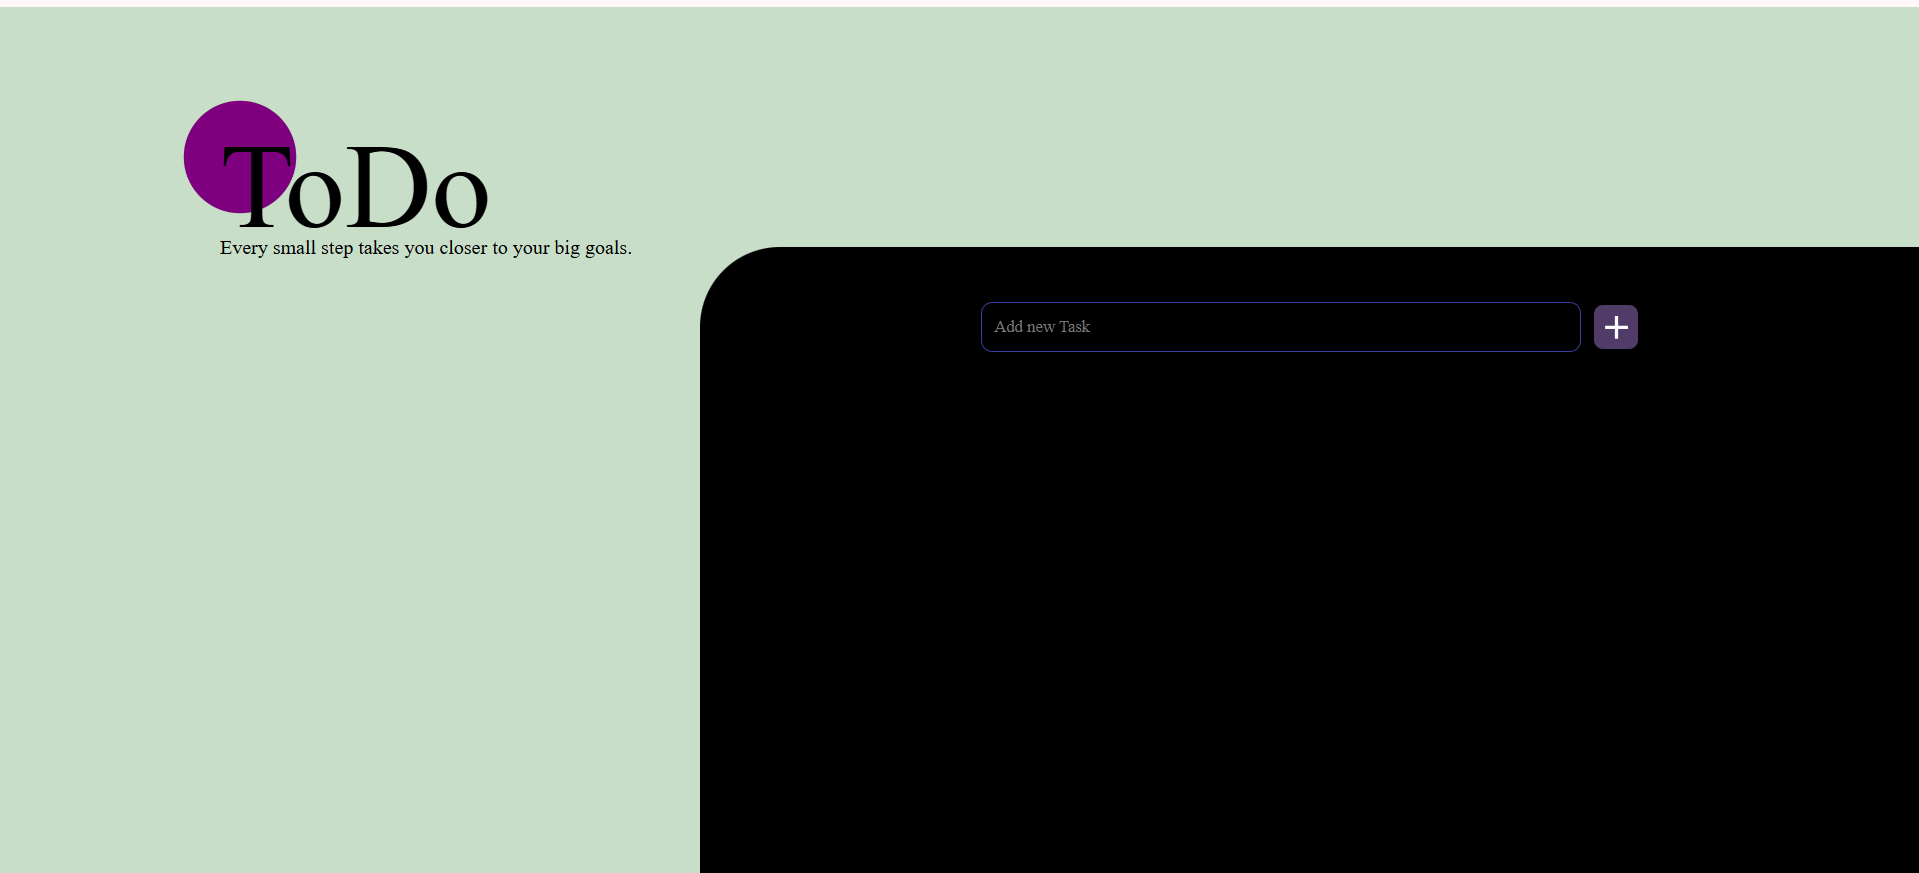
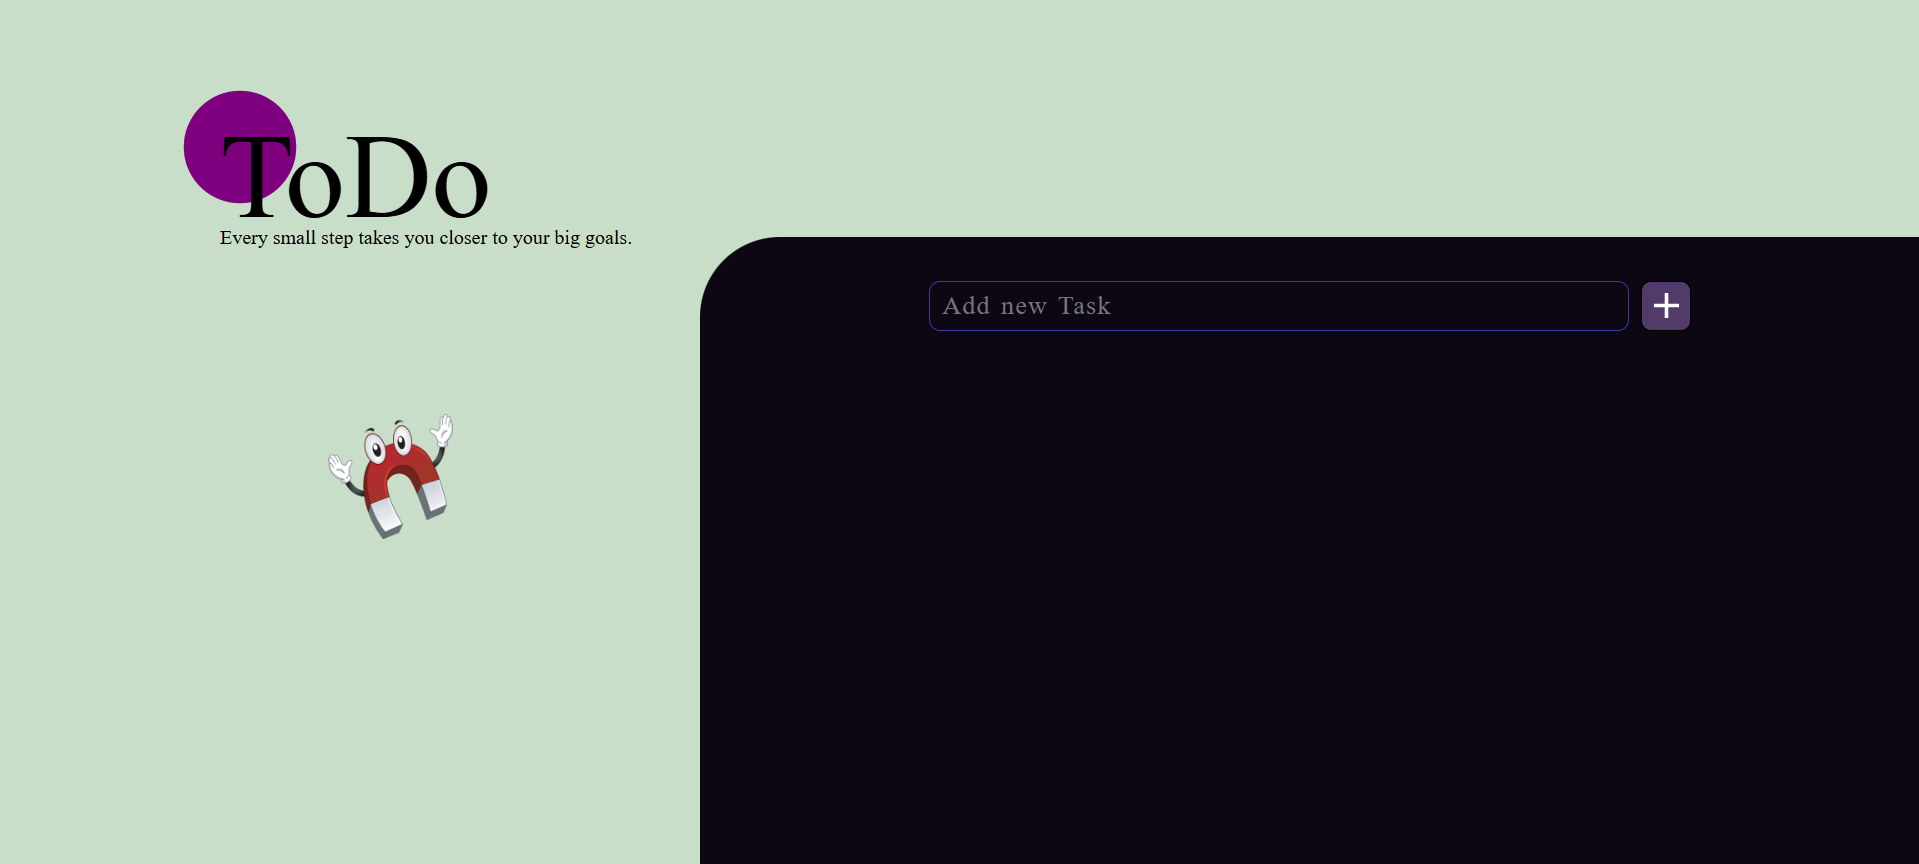
completed

diff --git a/script.js b/script.js
@@ -24,7 +24,7 @@ const cursor = new MouseFollower({
   speed: 0.55,
   ease: 'expo.out',
   overwrite: true,
-  skewing: 0,
+  skewing: 4,
   skewingText: 2,
   skewingIcon: 2,
   skewingMedia: 2,
@@ -99,32 +99,26 @@ function strik(index){
 }
 
 
-function createTodoComponent(todos,index){
-   
-  const div = document.createElement("div")
-   div.innerHTML=`<div class="Tasks">
-    <input type="checkbox" id="check-box${index}" onchange="strik(${index})" ${todos.completed ? "checked" : ""} value="${todos.title}"/>
-        <input type="text" id="taskInputEdit${index}" value="${todos.title}" readonly>
-        <button onclick="tdone(${index})"><img src="assets/check-line (1).svg" alt=""></button>
-        <button onclick="taskedit(${index})"><img src="assets/pencil.svg" alt=""></button>
-        <button onclick="taskdelete(${index})"><img src="assets/delete.svg" alt=""></button>
-     </div>`
-
-  return div;
-}
 
 function render(){
-  document.querySelector("#task-cards").innerHTML = "";
-      for (let i = 0; i < todos.length; i++) {
-        const element = createTodoComponent(todos[i], i);
-        document.querySelector("#task-cards").appendChild(element);
-      }
+  const taskCards = document.querySelector("#task-cards");  
+  taskCards.innerHTML = "";
+
+  todos.forEach((todo, index) => {  
+      const div = document.createElement("div");
+      div.className = "Tasks";
+      div.innerHTML = `<div class="Tasks">
+          <input type="checkbox" id="check-box${index}" onchange="strik(${index})" ${todo.completed ? "checked" : ""} />
+          <input type="text" id="taskInputEdit${index}" value="${todo.title}" readonly class="${todo.completed ? "completed" : ""}"> 
+          <button onclick="tdone(${index})"><img src="assets/check-line (1).svg" alt=""></button>
+          <button onclick="taskedit(${index})"><img src="assets/pencil.svg" alt=""></button>
+          <button onclick="taskdelete(${index})"><img src="assets/delete.svg" alt=""></button>
+          </div>`;
+      taskCards.appendChild(div);
+  });
 }
 
 
-
-
-//animation part
 
 
 

diff --git a/style.css b/style.css
@@ -18,8 +18,26 @@ body{
   padding: 3rem 0 0 9rem;
 }
 .mf-cursor{
-  color: #df03fc5d;
+  color: #df03fc91;
   
+}
+
+#flower{
+  height: 15rem;
+  width: 15rem;
+ position: absolute;
+ bottom:12rem ;;left: 12rem;
+  font-size: 2rem;
+  display: flex;
+  align-items: center;
+   justify-content: center;
+}
+#flower>img{
+  height: 100px;
+  width: 100px;
+  display: flex;
+  align-items: center;
+   justify-content: center;
 }
 
 .hh{
@@ -31,7 +49,7 @@ body{
 
 .text>img{
   height: 6rem;
-   
+  
 }
 .text>h1{
   /* background-color: red; */
@@ -114,8 +132,8 @@ body{
 }
 
 #task-cards{
-  height: 55.5vh;
-  width: 89vh;
+  height: 100%;
+  width:100%;
   display: flex;
   flex-direction: column;
   justify-content: flex-start;

diff --git a/index.html b/index.html
@@ -22,17 +22,18 @@
       <img src="./assets/Location_dot_purple.webp" alt=""><h1 >ToDo</h1>
       <h6>Every small step takes you closer to your big goals.</h6>
 
-      <div class="hh"  data-cursor-text="🚀"  data-cursor-stick>
+      <div class="hh"  data-cursor-text="Welcome" >
 
       </div>
-  
+      
   </div>
    <div>
-
+    <div id="flower" data-cursor-text="Help me!" data-cursor-stick><img src="assets\pngegg.png" alt=""></div>
    </div>
    
+   
    <div class="main" data-cursor-text="  ">
-    
+   
 
     <div class="input-div"  >
       <input  id="inp-text"  type="text" placeholder="Add new Task">

diff --git a/responsive.css b/responsive.css
@@ -32,6 +32,10 @@
     width: 80%;
     height: 85%;
   }
+
+  #flower{
+    display: none;
+  }
 }
 
 @media (max-width: 768px) {

diff --git a/README.md b/README.md
@@ -2,7 +2,7 @@
 
 ## Description
 
-A simple To-Do list webpage that allows users to add, edit, and delete tasks. The application uses HTML, CSS, and JavaScript to provide a dynamic and interactive user experience.
+A simple To-Do list webpage that allows users to add, edit,mark tasks as done and delete tasks. The application uses HTML, CSS, and JavaScript to provide a dynamic and interactive user experience.
 
 ## Screenshots
 
@@ -16,6 +16,7 @@ A simple To-Do list webpage that allows users to add, edit, and delete tasks. Th
 
 - **Add Tasks**: Users can add new tasks to the list.
 - **Edit Tasks**: Users can edit existing tasks.
+- **Mark Tasks as Done**: Users can mark tasks as completed.
 - **Delete Tasks**: Users can remove tasks from the list.
 - **Responsive Design**: The page is designed to be responsive and works on various screen sizes.
 
@@ -23,16 +24,18 @@ A simple To-Do list webpage that allows users to add, edit, and delete tasks. Th
 ## Project Structure
 ```
 /project-root
-├── index.html # Main HTML file
-├── assets # Directory containing image assets
-│ ├── check-line (1).svg
-│ ├── pencil.svg
-│ ├── delete.svg
-│ ├── add-fill.svg
-│ └── Location_dot_purple.webp
-├── styles.css # CSS file for main styling
-├── responsive.css # CSS file for responsive design
-└── script.js # JavaScript file for functionality
+├── index.html              # Main HTML file
+├── assets                  # Directory containing image assets
+│   ├── check-line (1).svg
+│   ├── pencil.svg
+│   ├── delete.svg
+│   ├── add-fill.svg
+│   ├── Location_dot_purple.webp
+│   ├── pngegg.png
+│   └── screenshots         # for README File
+├── styles.css              # CSS file for main styling
+├── responsive.css          # CSS file for responsive design
+└── script.js               # JavaScript file for functionality
 ```
 
 ## Technologies Used
